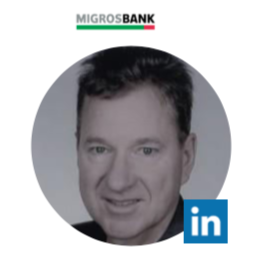
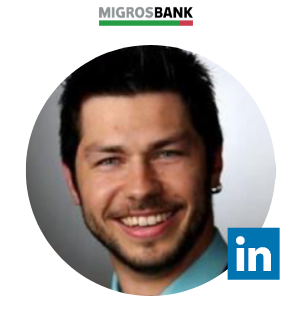
Filling in links

diff --git a/GL/EMEA-Summit-v6.html b/GL/EMEA-Summit-v6.html
@@ -202,8 +202,9 @@ a[href="place-holder.html"] {
 							<a href="https://www.linkedin.com/in/reinerzimmermann/" target="_blank"> </a>
 							<div class="cw58w4 col-item-w3">
 								<div class="obttns">
-									<div class="obttn4"><a href="place-holder.html">Watch</a></div>
-									<div class="obttn4"><a href="place-holder.html">Download PDF</a></div>
+									<div class="obttn4"><a href="https://youtu.be/Ljra7NSjRBE">Watch</a></div>
+									<div class="obttn4"><a href="http://www.oracle.com/technetwork/database/bi-datawarehousing/01-01-introduction-6715458.pdf">Download PDF</a>
+									</div>
 								</div>
 							</div>
 						</div>
@@ -267,8 +268,9 @@ a[href="place-holder.html"] {
 							<div class="cb98w6" style="background-color:white !important; text-align:center; margin-left:0px !important; margin-right:0px !important;">
 								<div class="cw58w4 col-item-w3">
 									<div class="obttns">
-										<div class="obttn4"><a href="place-holder.html">Watch</a></div>
-										<div class="obttn4"><a href="place-holder.html">Download PDF</a></div>
+										<div class="obttn4"><a href="https://youtu.be/oVlkROGpazI">Watch</a></div>
+										<div class="obttn4"><a href="http://www.oracle.com/technetwork/database/bi-datawarehousing/01-02-oci-panel-6715459.pdf">Download PDF</a>
+										</div>
 									</div>
 								</div>
 							</div>
@@ -299,8 +301,9 @@ a[href="place-holder.html"] {
 								<a href="https://www.linkedin.com/in/mikedietrich/" target="_blank"> </a>
 								<div class="cw58w4 col-item-w3">
 									<div class="obttns">
-										<div class="obttn4"><a href="place-holder.html">Watch</a></div>
-										<div class="obttn4"><a href="place-holder.html">Download PDF</a></div>
+										<div class="obttn4"><a href="https://youtu.be/Afj0bU9ampc">Watch</a></div>
+										<div class="obttn4"><a href="http://www.oracle.com/technetwork/database/bi-datawarehousing/01-03-migrationcloud-6715460.pdf">Download PDF</a>
+										</div>
 									</div>
 								</div>
 							</div>
@@ -364,8 +367,9 @@ a[href="place-holder.html"] {
 							<div class="cb98w6" style="background-color:white !important; text-align:center; margin-left:0px !important; margin-right:0px !important;">
 								<div class="cw58w4 col-item-w3">
 									<div class="obttns">
-										<div class="obttn4"><a href="place-holder.html">Watch</a></div>
-										<div class="obttn4"><a href="place-holder.html">Download PDF</a></div>
+										<div class="obttn4"><a href="https://youtu.be/WgnOap90NGQ">Watch</a></div>
+										<div class="obttn4"><a href="http://www.oracle.com/technetwork/database/bi-datawarehousing/01-04-adb-panel-6715461.pdf">Download PDF</a>
+										</div>
 									</div>
 								</div>
 							</div>
@@ -396,8 +400,9 @@ a[href="place-holder.html"] {
 								<a href="https://www.linkedin.com/in/enginsenel/" target="_blank"> </a>
 								<div class="cw58w4 col-item-w3">
 									<div class="obttns">
-										<div class="obttn4"><a href="place-holder.html">Watch</a></div>
-										<div class="obttn4"><a href="place-holder.html">Download PDF</a></div>
+										<div class="obttn4"><a href="https://youtu.be/B60huLcYJ0k">Watch</a></div>
+										<div class="obttn4"><a href="http://www.oracle.com/technetwork/database/bi-datawarehousing/01-05-adb-update-6715462.pdf">Download PDF</a>
+										</div>
 									</div>
 								</div>
 							</div>
@@ -461,8 +466,9 @@ a[href="place-holder.html"] {
 							<div class="cb98w6" style="background-color:white !important; text-align:center; margin-left:0px !important; margin-right:0px !important;">
 								<div class="cw58w4 col-item-w3">
 									<div class="obttns">
-										<div class="obttn4"><a href="place-holder.html">Watch</a></div>
-										<div class="obttn4"><a href="place-holder.html">Download PDF</a></div>
+										<div class="obttn4"><a href="https://youtu.be/QCqxaWGMUnE">Watch</a></div>
+										<div class="obttn4"><a href="http://www.oracle.com/technetwork/database/bi-datawarehousing/01-06-exa-analytics-panel-6715463.pdf">Download PDF</a>
+										</div>
 									</div>
 								</div>
 							</div>
@@ -492,8 +498,9 @@ a[href="place-holder.html"] {
 								<a href="https://www.linkedin.com/in/barb-lundhild-78a5b42/" target="_blank"> </a>
 								<div class="cw58w4 col-item-w3">
 									<div class="obttns">
-										<div class="obttn4"><a href="place-holder.html">Watch</a></div>
-										<div class="obttn4"><a href="place-holder.html">Download PDF</a></div>
+										<div class="obttn4"><a href="https://youtu.be/07vAoWIyxP0">Watch</a></div>
+										<div class="obttn4"><a href="http://www.oracle.com/technetwork/database/bi-datawarehousing/01-07-exadataupdate-6715464.pdf">Download PDF</a>
+										</div>
 									</div>
 								</div>
 							</div>
@@ -518,42 +525,13 @@ a[href="place-holder.html"] {
 								</p>
 								<div class="cw58w4 col-item-w3">
 									<div class="obttns">
-										<div class="obttn4"><a href="place-holder.html">Watch</a></div>
-										<div class="obttn4"><a href="place-holder.html">Download PDF</a></div>
+										<div class="obttn4"><a href="https://youtu.be/OTwCOPewdcI">Watch</a></div>
+										<div class="obttn4"><a href="http://www.oracle.com/technetwork/database/bi-datawarehousing/01-08-oraclekeynote-6715465.pdf">Download PDF</a>
+										</div>
 									</div>
 								</div>
 							</div>
 							<div class="cb98w6" style="background-color:white !important; text-align:center; margin-left:0px !important; margin-right:0px !important;">&nbsp;</div>
-						</div>
-					</div>
-				</section>
-				<section class="cb98 cb98v0 cpad" data-ocomid="cb98" data-trackas="cb98" style="background-image: url('https://www.oracle.com/a/ocom/img/rc29-bgnw-fpo-01.png'); background-repeat: repeat; background-position: right top;">
-					<div class="cb98w1 cwidth">
-						<div class="cb98w3">
-							<div class="cb98w4">
-								<h4 class="icn-heading icn-idea-m" style="width:227px !important">Keynote</h4>
-							</div>
-							<div class="cb98w5" style="background-color:white !important; text-align:center; margin-left:0px !important; margin-right:0px !important;">&nbsp;</div>
-							<div class="cb98w6" style="background-color:white !important; text-align:center; margin-left:0px !important; margin-right:0px !important;"><br />
-								<img alt="Intel Company Logo" src="https://keithlaker.github.io/GL/Images/Intel-logo.png" style="width:75px !important;" /><br />
-								<a href="https://www.linkedin.com/in/himanshusaluja/" target="_blank"><img alt="" src="https://keithlaker.github.io/GL/Images/8-1.png" style="width:280px !important;" /> </a>
-								<h5><a href="https://www.linkedin.com/in/himanshusaluja/" target="_blank">SPONSOR KEYNOTE</a><br />
-									&nbsp;</h5>
-								<a href="https://www.linkedin.com/in/himanshusaluja/" target="_blank"> </a>
-								<p style="color:#353030;"><a href="https://www.linkedin.com/in/himanshusaluja/" target="_blank">Himanshu Saluja<br />
-										Cloud Strategy<br />
-										Intel
-									</a>
-								</p>
-								<a href="https://www.linkedin.com/in/himanshusaluja/" target="_blank"> </a>
-								<div class="cw58w4 col-item-w3">
-									<div class="obttns">
-										<div class="obttn4"><a href="place-holder.html">Watch</a></div>
-										<div class="obttn4"><a href="place-holder.html">Download PDF</a></div>
-									</div>
-								</div>
-							</div>
-							<div class="cb98w5" style="background-color:white !important; text-align:center; margin-left:0px !important; margin-right:0px !important;">&nbsp;</div>
 						</div>
 					</div>
 				</section>
@@ -773,8 +751,8 @@ a[href="place-holder.html"] {
 							</div>
 							<div class="cb98w6" style="background-color:white !important; text-align:center;"><a href="https://www.linkedin.com/in/bernd-granacher-9119b8b8/" target="_blank"><img alt="" src="https://keithlaker.github.io/GL/Images/13-2.png" style="margin-top:15px; width:150px;" /> </a><br />
 								&nbsp;
-								<p style="color:#353030;"><a href="https://www.linkedin.com/in/bernd-granacher-9119b8b8/" target="_blank">Bernd Granacher<br />
-										Head of Software Development<br />
+								<p style="color:#353030;"><a href="https://www.linkedin.com/in/markus-oschwald-834b821b0/" target="_blank">Markus Oschwald<br />
+										Senior Software Analyst<br />
 										Migrosbank - Switzerland
 									</a>
 								</p>
@@ -842,6 +820,45 @@ a[href="place-holder.html"] {
 									<div class="obttns">
 										<div class="obttn4"><a href="place-holder.html">Watch</a></div>
 										<div class="obttn4"><a href="place-holder.html">Download PDF</a></div>
+									</div>
+								</div>
+							</div>
+							<div class="cb98w6" style="background-color:white !important; text-align:center; margin-left:0px !important; margin-right:0px !important;">&nbsp;</div>
+						</div>
+					</div>
+				</section>
+				<section class="cb98 cb98v0 cpad" data-ocomid="cb98" data-trackas="cb98" style="background-image: url('https://www.oracle.com/a/ocom/img/rc29-bgnw-fpo-01.png'); background-repeat: repeat; background-position: right top;">
+					<div class="cb98w1 cwidth">
+						<div class="cb98w3" style="border-bottom:0px!important;">
+							<div class="cb98w4" style="background-color:white!important; background-image: url('https://www.oracle.com/a/ocom/img/rc29-bgnw-fpo-01.png'); background-repeat: repeat; background-position: right top;">
+								<h4 style="width:227px !important;">&nbsp;</h4>
+							</div>
+							<div class="cb98w5" style="background-color:white !important; text-align:center; margin-left:0px !important; margin-right:0px !important;">&nbsp;</div>
+							<div class="cb98w6" style="background-color:white !important; text-align:center; margin-left:0px !important; margin-right:0px !important;">
+								<div class="cw58w4 col-item-w3">
+									<div class="obttns">
+									<br><br>
+										<p style="color:#353030;">
+											Special thanks to <strong><span style="color:#0071c5">Intel</span></strong> who will be our main conference sponsor for the event.<br><br>
+										<img src="https://upload.wikimedia.org/wikipedia/commons/thumb/c/c9/Intel-logo.svg/1280px-Intel-logo.svg.png" width="150px">
+										</p>
+										<br>
+										<br>
+										<p style="color:#353030;">
+											Many thanks to our associate partners:<br>
+										</p>
+											<ul>
+												<li>Sysco</li>
+												<li>FORS</li>
+												<li>Global Maksimum</li>
+												<li>ISE</li>
+												<li>RittmanMead</li>
+												<li>SumIT</li>
+												<li>Tradeware</li>
+												<li>Tripwire Solutions</li>
+											</ul>
+											<br>
+											<br>
 									</div>
 								</div>
 							</div>
